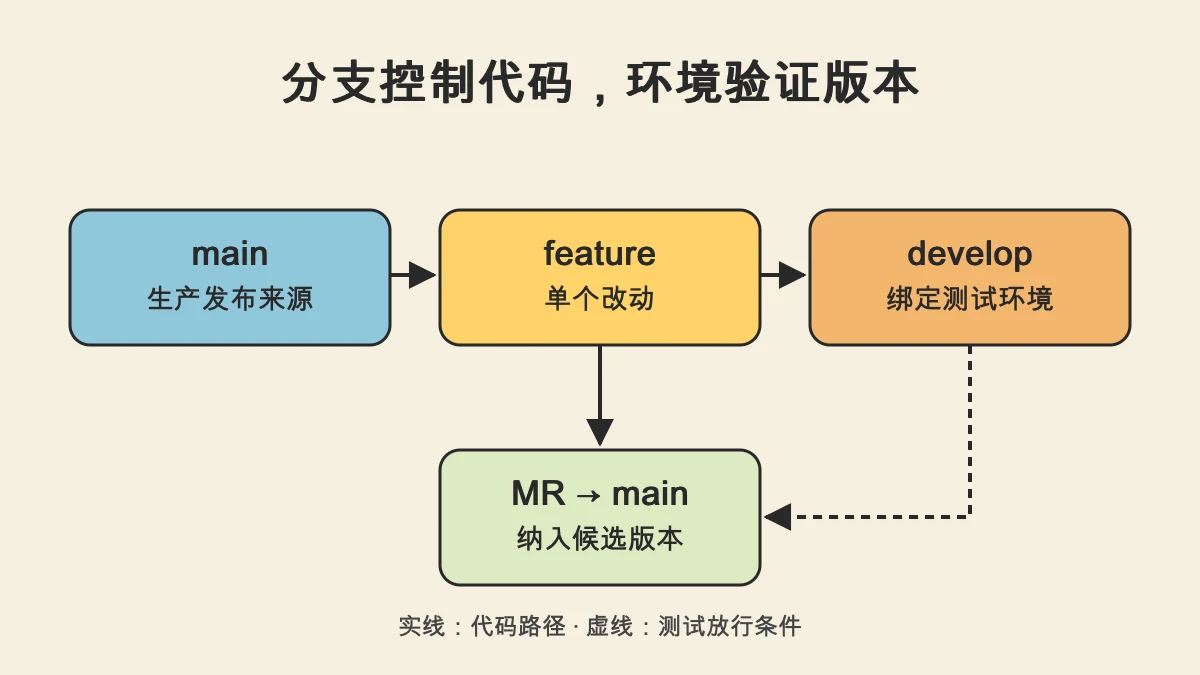
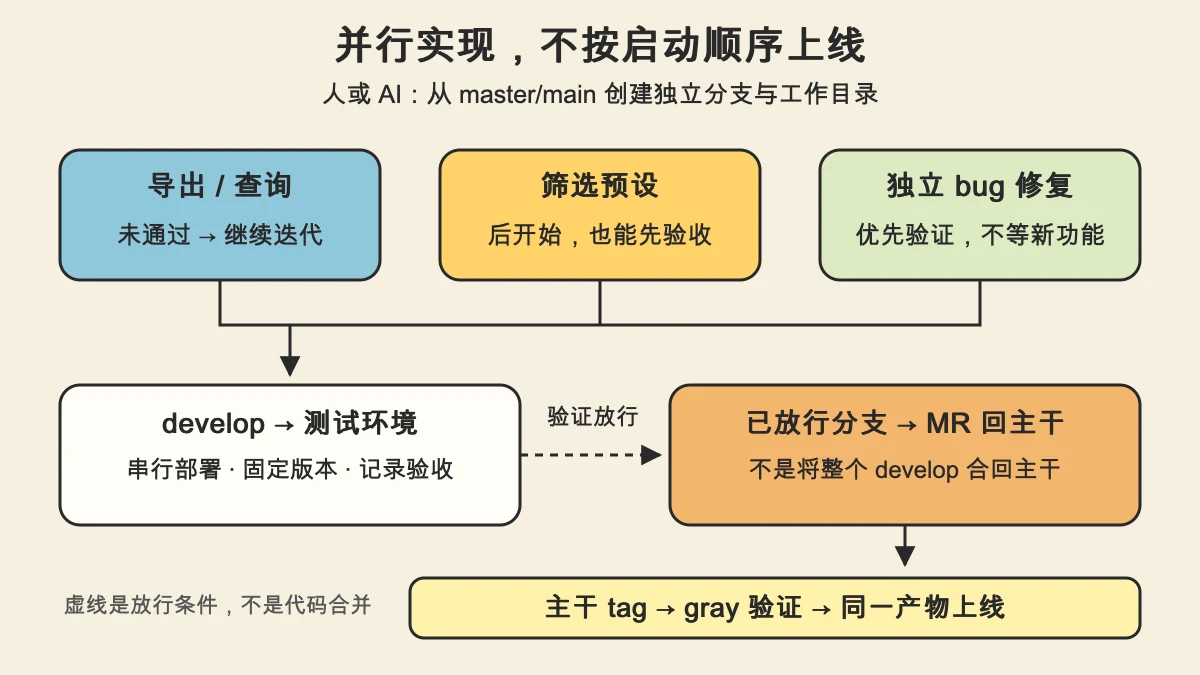
docs: illustrate AI parallel delivery and simplify workflow explanations

diff --git a/_posts/zh-CN/2026-09-14-sprint-git-flow.md b/_posts/zh-CN/2026-09-14-sprint-git-flow.md
@@ -15,21 +15,26 @@ image:
 toc: true
 ---
 
-假设你和同事正在修改同一个后台系统：你增加“导出报表”，同事调整“查询接口”。两个人各自在自己的分支上开发，单独测试都没问题。一放到测试环境，导出功能却因为查询接口返回格式变了而报错。
+假设你和同事正在用 AI 并行改进一个后台系统：一个 Agent 增加“导出报表”，另一个调整“查询接口”，第三个顺手实现刚想到的“筛选预设”。每个任务在自己的分支和工作目录里开发，进度却不按启动顺序排列：先启动的还在调试，后启动的已经提交了代码。
 
-你们一起排查兼容性问题，又发现报表共用的旧查询逻辑本身就有一个历史 bug。回到当前生产版本复现后，确认它并不是这两个新功能引入的：即使不上新功能，也应该尽快修复。
+把导出和查询放到测试环境，导出却因接口返回格式变化而报错。你们排查时又发现一个历史 bug：回到当前生产版本仍能复现，即使不上新功能也应该尽快修复。
 
-事情突然有了先后顺序：历史 bug 要先修，导出和查询两个新功能可以继续开发。
+这时的任务状态可能是这样的：
 
-但测试环境运行的 `develop` 已经合入了好几位同事的功能。有的还在联调，有的没通过验收。把整个 `develop` 合回生产主干，会把它们一起带上；等所有功能做完再发布，又会让一个本来可以独立修复的问题一直等下去。
+| 改动 | 当前状态 | 发布安排 |
+|---|---|---|
+| 导出报表 | 实现已完成，组合测试失败 | 修复兼容性问题后重测 |
+| 查询接口 | 仍在调试，新接口尚未放行 | 继续开发 |
+| 筛选预设 | 后启动，先通过验收，且不依赖前两项 | 可以单独安排发布 |
+| 历史 bug 修复 | 从生产主干单独拆出，优先验证 | 通过后优先上线 |
 
-**能不能让大家继续一起测试，同时只把这次必须上线的修复送到生产？**
+但 `develop` 已经混合了这些改动以及其他同事的功能。整体合回主干会把未放行代码一并带上；等所有任务结束，又会拖住已经可以上线的修复。
 
-我们的做法是：从 `master/main` 单独创建一个修复分支，只修这个历史 bug。修复先进入测试环境验证，通过后由它自己申请合并回主干，再走发布前验证和上线。两个新功能和其他同事的改动仍留在各自的开发分支与测试环境里，不必跟着发布。
+**AI 可以并行实现 idea，但“代码写完”“验证通过”和“允许发布”是三个不同状态。发布顺序应由验收结果和依赖决定，不由任务启动顺序决定。**
 
-**从主干拆出相互独立的改动，在共享环境里测试，再按实际准备程度分批回到主干上线。测试可以集中，发布不必捆绑。**
+我们的做法是从 `master/main` 拆出独立改动，先在共享环境组合测试，再让已经放行的分支分别回主干，固定版本后上线。人或 AI 执行都遵循同一条路径；AI 自报完成不替代测试和审查。
 
-我在团队中实践和完善了这套做法，取得了良好的实践效果。它适合小团队按迭代集中测试，但不是 Git 标准流程。下面先解释环境与分支的关系，再看它与经典 GitFlow 的区别，最后走一遍具体操作。
+这套做法在我们的团队实践中取得了良好效果。上面的 AI 并行任务是一个假设场景，用来说明它如何承接更多 idea 和不一致的完成顺序；它不是 Git 标准流程，也不要求团队必须使用 AI。
 
 ## 先分清三个环境，以及它们运行的代码
 
@@ -54,6 +59,18 @@ toc: true
 
 **MR（Merge Request）是合并请求，GitHub 中叫 PR（Pull Request）。** Source 是提供改动的分支，Target 是接收改动的分支。tag 则是版本标记：主干继续向前开发时，已经选定的发布版本仍然可以保持不变。
 
+### 并行开发可以，共享环境不能各自抢写
+
+独立 worktree 是同一仓库的独立工作目录，用来隔离 Agent 的工作文件；它不会隔离共享测试环境。建议由集成人员或流水线串行管理 `develop` 的合并与部署，验证期间固定测试版本。
+
+| 要记录的内容 | 防止什么误判 |
+|---|---|
+| 本次测试的 commit／产物摘要 | 测的是旧版，却把结果记到新提交上 |
+| 验证范围、结果与确认人 | Agent 写完代码就被当作验收完成 |
+| 环境占用与部署窗口 | 一个任务测试到一半，被另一个任务覆盖环境 |
+
+版本变化后，旧结果只能证明旧版本；重新确认受影响范围并补测，再放行新的组合。
+
 ## 与经典 GitFlow 的差别：从哪里拆，怎样回主干
 
 经典 GitFlow 的常规功能从长期 `develop` 分支创建，完成后回到 `develop`，再通过 release 分支准备一批发布。这里则把 `master/main` 作为功能和修复的共同起点；`develop` 只承担共享测试，不整体回主干。
@@ -67,7 +84,7 @@ toc: true
 
 经典 GitFlow 也有从生产主干创建 hotfix 的路径，同样能先修线上 bug。**区别不是“它不能紧急修复”，而是我们把“从主干拆分、按准备程度回主干”作为所有功能、修复和优化的常规路径。** 四种主流模型的完整介绍与取舍见[后面的对比](#workflow-comparison)。
 
-![开发分支先进入绑定的测试环境，验证后回到生产发布主干](/assets/img/sprint-git-flow/flow.webp)
+![人或 AI 并行开发，固定测试版本后验收，只有放行的分支进入主干并按 tag 发布](/assets/img/sprint-git-flow/flow.webp)
 
 ### 把历史 bug 的修复单独送上线
 
@@ -137,11 +154,13 @@ git push origin develop
 
 在这套流程中，推送 `develop` 会触发 CI 部署到测试环境。这是仓库流水线的配置，不是创建一个名为 `develop` 的分支就自然具备的能力。
 
-测试包括自身功能和与其他分支的交叉影响。合入 `develop` 时可以解决集成冲突，但这个解决结果只存在于集成分支，不会自动进入开发分支。
+测试既看自身功能，也看交叉影响。发现问题后，先判断修在哪里：
 
-如果发现导出功能本身有问题，先切回 `feat/export-report` 修复、提交并推送，再重复上面的 `develop` 集成步骤。不要因为当前停在 `develop`，就直接在那里继续写功能。
-
-要区分两种情况：如果暴露的是功能自身缺陷，应在开发分支修复后重新集成；如果只是未发布分支之间的冲突，应在集成合并中处理并记录。**不要为了带回冲突解决结果，把整个 `develop` 合回开发分支**，否则会把其他未验证改动一起带入生产 MR。面对 `main` 的冲突，应以最新 `main` 为基线单独解决并重新测试。
+| 问题 | 修复位置 | 下一步 |
+|---|---|---|
+| 导出功能自身缺陷 | 切回功能分支修复、提交、推送 | 重新合入 develop 并测试 |
+| 未发布功能之间的集成冲突 | develop 的合并过程 | 记录处理结果；不把整个 develop 合回功能分支 |
+| 面向主干的合并冲突 | 功能分支同步最新主干后解决 | 重新验证，不能沿用旧结果 |
 
 ### 合并：测试通过后由开发分支发起 MR
 
@@ -153,7 +172,7 @@ feat/export-report ── MR ──> main
 
 创建 MR 时，Source 选择 `feat/export-report`，Target 选择 `main`。共享测试通过、依赖关系确认且代码审查完成后，合入主干，随后清理开发分支。
 
-这里的合并只是把代码纳入发布基线，不意味着用户已经运行到新版本。接下来从主干选定候选提交，进入 gray 验证，再决定是否部署生产。无需为每个 MR 都建立独立预览环境。
+合并后只是进入发布基线，还没有上线；接下来固定候选版本，经过 gray，再部署生产。
 
 删除前确认远端 MR 已合并且本地没有未交付修改。普通合并可使用 `git branch -d`；Squash Merge 或 Rebase Merge 后，Git 未必能通过提交祖先关系识别“已合并”，此时应核对 MR 和内容，不要遇到拒绝就盲目强删。
 
@@ -161,7 +180,7 @@ feat/export-report ── MR ──> main
 
 我们当前采用最小化的 **master/main + tag** 做法：不额外维护长期 gray 分支，主干接收准备发布的改动，tag 标识具体发布版本。加入 gray 阶段也不需要改变这一分支结构。
 
-这里用 **gray** 指发布前的验证环境，有些团队称之为预生产或 QA 环境。名称并不统一：QA 也可能指普通测试环境，而“灰度发布”还可能指真实生产流量的逐步放量。本文讨论的是前一种发布前验证阶段，不假定它接收生产流量。
+这里的 gray 是发布前验证环境，不是把真实生产流量逐步放进来的“灰度放量”。
 
 ## gray 怎么接入：两种做法
 
@@ -193,9 +212,9 @@ feat/export-report ── MR ──> main
 | 准备发布 | 将 gray 的稳定结果通过 MR 纳入主干 | 确认最后主干候选内容与测试版本一致 |
 | 正式发布 | 在最终主干提交打新 tag 并构建 | 最终产物先过 gray，再晋级生产 |
 
-如果主干在此期间已经接收下一批功能，gray 合回主干并不会把那些功能排除掉。此时要么协调发布范围，让最终主干组合重新经过 gray 验证；要么暂缓下一批进入主干。**不能测的是 gray 批次，上线时却直接拿已经变化的主干。**
+**gray 分支稳定的是一个批次，不能自动排除主干后来加入的功能。最终主干组合变化后，必须重新经过 gray 验证。**
 
-若业务要求长期并行维护多个生产版本，且必须从各批次分支独立打标签发布，就已经超出了这里“发布标签只来自主干”的简化模型，应另行设计 release 维护线。独立 gray 分支增加了修复回补和组合一致性成本；没有并行稳定版本的需要时，主干 + tag 更容易保持清楚。
+这也是优先选择主干 + tag 的原因：少一条长期分支，少一份回补与组合管理。确需多个生产版本并行维护时，再设计独立 release 维护线，不强套这套简化流程。
 
 ### 版本与回滚
 
